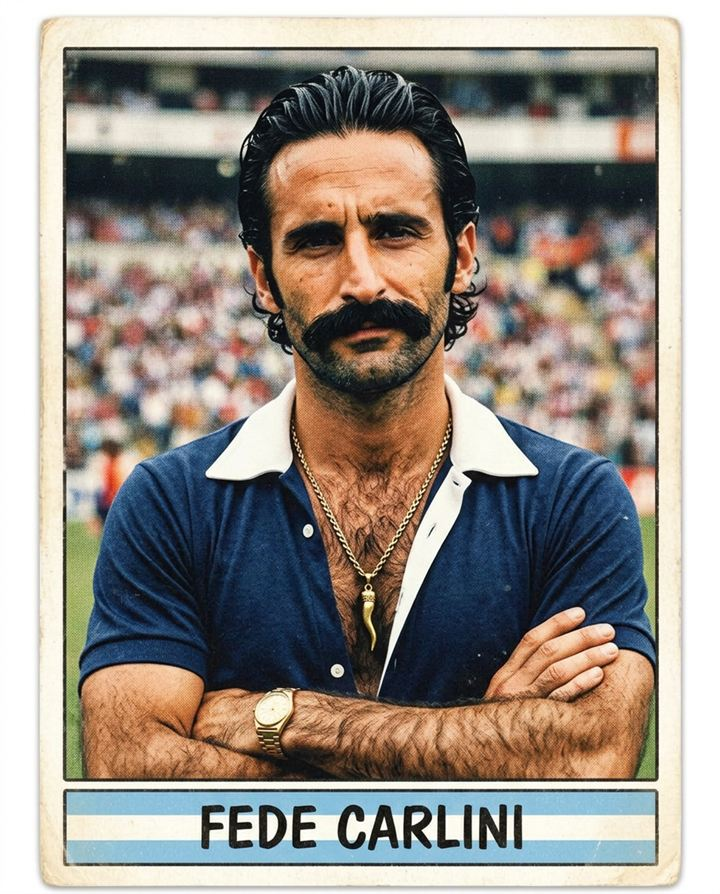
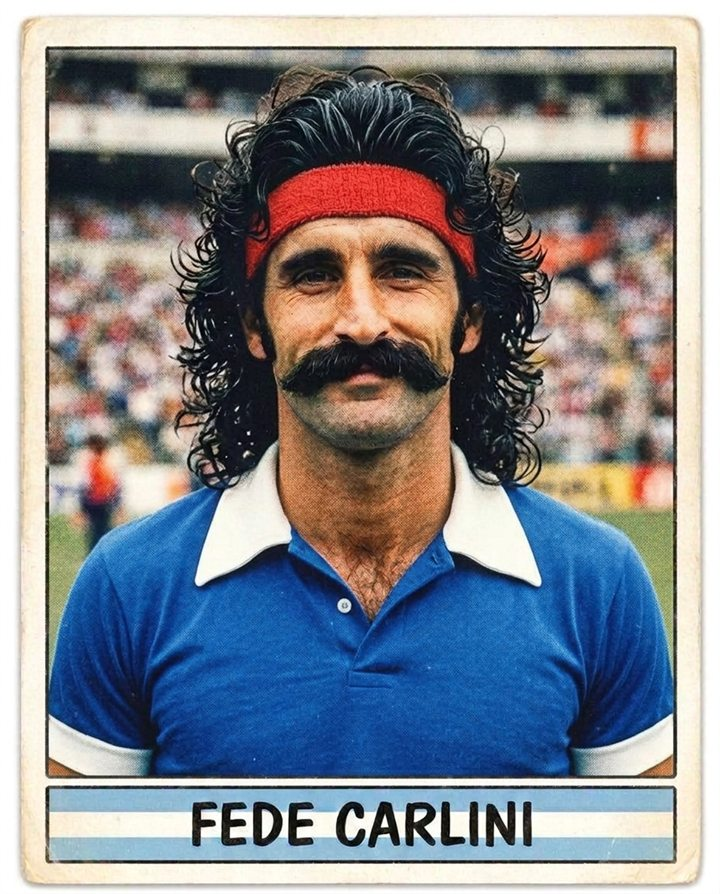
Figurita nueva de Fede Carlini (vincha roja)

diff --git a/index.html b/index.html
@@ -1,4 +1,4 @@
-<!doctype html><html lang="es"><head><meta charset="utf-8"><meta name="viewport" content="width=device-width,initial-scale=1,viewport-fit=cover"><meta property="og:type" content="website"><meta property="og:site_name" content="Fútbol PAS"><meta property="og:title" content="Fútbol PAS"><meta property="og:description" content="Votá a cada jugador y armá equipos parejos."><meta property="og:url" content="https://futbolpas.pages.dev/"><meta property="og:image" content="https://futbolpas.pages.dev/og.jpg?v=4"><meta property="og:image:width" content="1200"><meta property="og:image:height" content="630"><meta name="twitter:card" content="summary_large_image"><meta name="description" content="Votá a cada jugador y armá equipos parejos."><style>:root{padding-top:env(safe-area-inset-top,0px);padding-bottom:env(safe-area-inset-bottom,0px)}[hidden]{display:none!important}img{max-width:100%}</style></head><body>
+<!doctype html><html lang="es"><head><meta charset="utf-8"><meta name="viewport" content="width=device-width,initial-scale=1,viewport-fit=cover"><meta property="og:type" content="website"><meta property="og:site_name" content="Fútbol PAS"><meta property="og:title" content="Fútbol PAS"><meta property="og:description" content="Votá a cada jugador y armá equipos parejos."><meta property="og:url" content="https://futbolpas.pages.dev/"><meta property="og:image" content="https://futbolpas.pages.dev/og.jpg?v=5"><meta property="og:image:width" content="1200"><meta property="og:image:height" content="630"><meta name="twitter:card" content="summary_large_image"><meta name="description" content="Votá a cada jugador y armá equipos parejos."><style>:root{padding-top:env(safe-area-inset-top,0px);padding-bottom:env(safe-area-inset-bottom,0px)}[hidden]{display:none!important}img{max-width:100%}</style></head><body>
 <title>Fútbol PAS</title>
 <link rel="preconnect" href="https://fonts.googleapis.com">
 <link rel="stylesheet" href="https://fonts.googleapis.com/css2?family=Anton&family=Courier+Prime:wght@400;700&family=Inter:wght@400;600;700&display=swap">
@@ -232,8 +232,8 @@ const P=id=>all().find(p=>p.id===id);
 const rot=id=>{let h=0;for(const c of id)h=(h*31+c.charCodeAt(0))%97;return (h%7)-3;};
 let toastT=null;
 function toast(t,ms=1800){document.querySelectorAll('.toast').forEach(x=>x.remove());const d=document.createElement('div');d.className='toast';d.textContent=t;document.body.appendChild(d);clearTimeout(toastT);toastT=setTimeout(()=>d.remove(),ms);}
-const faceImg=p=>p.photo||(p.f?`figus/web/${p.f}-cara.jpg`:null);
-const cardImg=p=>p.photo||(p.f?`figus/web/${p.f}-mini.jpg`:null);
+const faceImg=p=>p.photo||(p.f?`figus/web/${p.f}-cara.jpg?v=2`:null);
+const cardImg=p=>p.photo||(p.f?`figus/web/${p.f}-mini.jpg?v=2`:null);
 function cardThumb(p){const f=cardImg(p);return f?`<img src="${esc(f)}" alt="" loading="lazy" draggable="false">`:`<span class="nof">${p.custom?esc(p.name.slice(0,1).toUpperCase()):'?'}</span>`;}
 function faceThumb(p){const f=faceImg(p);return f?`<img src="${esc(f)}" alt="" loading="lazy" draggable="false">`:`<span class="nof">${p.custom?esc(p.name.slice(0,1).toUpperCase()):'?'}</span>`;}
 
